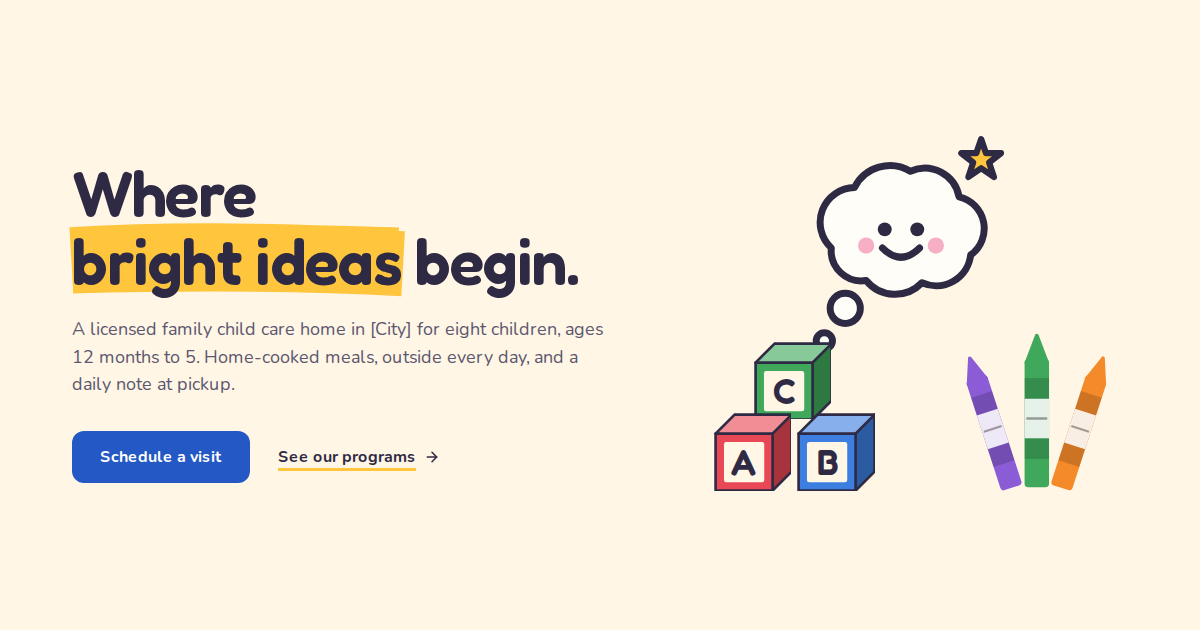
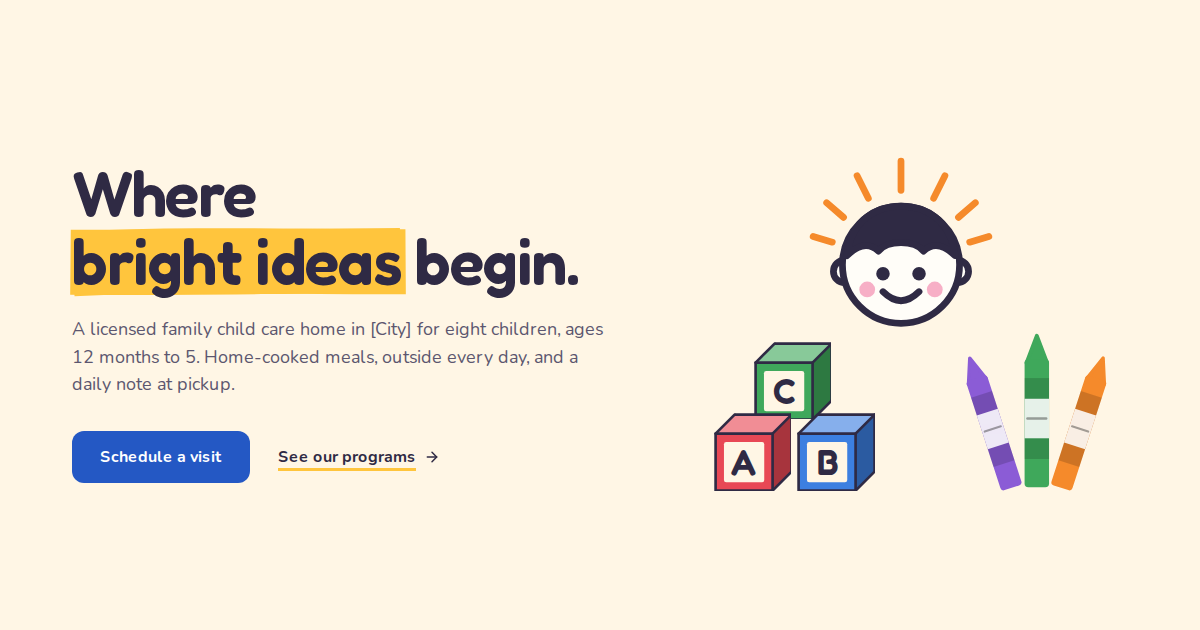
New mascot: a cartoon kid beaming with excitement rays
Replace the thought bubble with a simple cartoon kid (ink outline, hair
cap, dot eyes, smile, cheeks, ears) and seven crayon-orange rays from
the top of the head, in the header, hero, about placeholder, footer,
favicon, and share image. Brand kit and README updated to match.

Claude-Session: https://claude.ai/code/session_012hyVrbn37MDyNhVB1UDNbA

diff --git a/src/components/brand/illustrations.tsx b/src/components/brand/illustrations.tsx
@@ -12,28 +12,21 @@ function a11y(title?: string) {
   return title ? { role: 'img' as const, 'aria-label': title } : { 'aria-hidden': true as const }
 }
 
-/** The mascot: a smiling thought bubble with a star spark. Fills are fixed brand colors; the outline uses currentColor. */
-export function ThoughtBubble({ title, className, ...props }: Svg) {
+/** The mascot: a simple cartoon kid beaming with an idea. Rays are crayon orange; the outline uses currentColor. */
+export function Kid({ title, className, ...props }: Svg) {
   return (
     <svg viewBox="0 0 200 200" className={cn('text-ink', className)} {...a11y(title)} {...props}>
       <g stroke="currentColor" strokeWidth="6" strokeLinecap="round" strokeLinejoin="round">
-        <path
-          d="M40 100 A30 30 0 0 1 60 48 A34 34 0 0 1 108 34 A30 30 0 0 1 150 56 A28 28 0 0 1 160 106 A30 30 0 0 1 118 130 A32 32 0 0 1 70 128 A26 26 0 0 1 40 100 Z"
-          fill="var(--color-paper-2)"
-        />
-        <circle cx="52" cy="152" r="13" fill="var(--color-paper-2)" />
-        <circle cx="34" cy="180" r="7" fill="var(--color-paper-2)" />
-        <circle cx="86" cy="84" r="6" fill="currentColor" stroke="none" />
-        <circle cx="114" cy="84" r="6" fill="currentColor" stroke="none" />
-        <path d="M84 100 Q100 116 116 100" fill="none" />
-        <circle cx="70" cy="98" r="7" fill="var(--color-crayon-pink)" stroke="none" opacity=".6" />
-        <circle cx="130" cy="98" r="7" fill="var(--color-crayon-pink)" stroke="none" opacity=".6" />
-        <polygon
-          points="50,6 61,38 95,38 68,59 79,92 50,72 21,92 32,59 5,38 39,38"
-          fill="var(--color-crayon-yellow)"
-          strokeWidth="14"
-          transform="translate(150 4) scale(0.38)"
-        />
+        <path d="M100 52L100 26 M129 59L139 39 M71 59L61 39 M151 76L166 63 M49 76L34 63 M161 98L178 93 M39 98L22 93" fill="none" stroke="var(--color-crayon-orange)" />
+        <circle cx="50" cy="124" r="10" fill="var(--color-paper-2)" />
+        <circle cx="150" cy="124" r="10" fill="var(--color-paper-2)" />
+        <circle cx="100" cy="118" r="52" fill="var(--color-paper-2)" />
+        <path d="M52 110 C56 78 78 66 100 66 C122 66 144 78 148 110 C138 100 128 98 120 106 C112 96 88 96 80 106 C72 98 62 100 52 110 Z" fill="currentColor" />
+        <circle cx="84" cy="126" r="6" fill="currentColor" stroke="none" />
+        <circle cx="116" cy="126" r="6" fill="currentColor" stroke="none" />
+        <path d="M84 142 Q100 158 116 142" fill="none" />
+        <circle cx="70" cy="140" r="7" fill="var(--color-crayon-pink)" stroke="none" opacity=".6" />
+        <circle cx="130" cy="140" r="7" fill="var(--color-crayon-pink)" stroke="none" opacity=".6" />
       </g>
     </svg>
   )

diff --git a/src/sections/hero.tsx b/src/sections/hero.tsx
@@ -1,6 +1,6 @@
 import { m } from 'motion/react'
 import { Baby, Clock, UtensilsCrossed, Users } from 'lucide-react'
-import { Block, ThoughtBubble, Crayon } from '@/components/brand/illustrations'
+import { Block, Kid, Crayon } from '@/components/brand/illustrations'
 import { Highlighter } from '@/components/motion/highlighter'
 import { Button } from '@/components/ui/button'
 import { Card, IconCircle } from '@/components/ui/card'
@@ -17,7 +17,7 @@ export function Hero() {
         <div className="grid items-center gap-12 lg:grid-cols-[1.05fr_0.95fr] lg:gap-16">
           <div className="max-w-[36rem]">
             {/* On phones the mascot sits above the headline; the full scene shows from lg up. */}
-            <ThoughtBubble className="mb-6 h-24 w-auto lg:hidden" title="The Little Thinkers mascot, a smiling thought bubble" />
+            <Kid className="mb-6 h-24 w-auto lg:hidden" title="The Little Thinkers mascot, a cartoon kid beaming with an idea" />
             <p className="text-[0.9375rem] font-semibold text-ink-soft">{hero.eyebrow}</p>
             <h1 className="mt-3 font-display text-h1 font-semibold text-ink">
               {hero.headline.before}
@@ -75,11 +75,11 @@ function HeroArt() {
   return (
     <div className="relative mx-auto hidden aspect-[5/4] w-full max-w-[520px] lg:block" aria-hidden="true">
       <m.div
-        className="absolute left-1/2 top-0 h-[66%] w-auto -translate-x-1/2"
+        className="absolute left-1/2 top-0 h-[64%] w-auto -translate-x-1/2"
         animate={{ y: [0, -8, 0] }}
         transition={{ duration: 6, ease: 'easeInOut', repeat: Infinity }}
       >
-        <ThoughtBubble className="h-full w-auto" title={`${site.name} mascot`} />
+        <Kid className="h-full w-auto" title={`${site.name} mascot`} />
       </m.div>
       <div className="absolute bottom-0 left-[6%] w-[38%]">
         <div className="relative aspect-[2/1.86]">

diff --git a/src/sections/navbar.tsx b/src/sections/navbar.tsx
@@ -1,7 +1,7 @@
 import { useEffect, useState } from 'react'
 import { AnimatePresence, m } from 'motion/react'
 import { Menu, X } from 'lucide-react'
-import { ThoughtBubble } from '@/components/brand/illustrations'
+import { Kid } from '@/components/brand/illustrations'
 import { Button } from '@/components/ui/button'
 import { Container } from '@/components/ui/layout'
 import { nav, site } from '@/content/site'
@@ -34,7 +34,7 @@ export function Navbar() {
     >
       <Container className="relative flex h-16 items-center gap-6 md:h-[4.5rem]">
         <a href="#top" className="flex items-center gap-2.5 rounded-md" aria-label={`${site.name}, back to top`}>
-          <ThoughtBubble className="h-9 w-auto" />
+          <Kid className="h-9 w-auto" />
           <span className="flex flex-col leading-none">
             <span className="font-display text-[1.125rem] font-semibold text-ink">{site.name}</span>
             <span className="mt-0.5 hidden text-label font-bold uppercase text-ink-soft sm:block">{site.descriptor}</span>

diff --git a/src/sections/about.tsx b/src/sections/about.tsx
@@ -1,5 +1,5 @@
 import { Check } from 'lucide-react'
-import { ThoughtBubble } from '@/components/brand/illustrations'
+import { Kid } from '@/components/brand/illustrations'
 import { Highlighter } from '@/components/motion/highlighter'
 import { Reveal } from '@/components/motion/reveal'
 import { Container, Section } from '@/components/ui/layout'
@@ -21,7 +21,7 @@ export function About() {
                 className="grid aspect-[4/5] w-full place-items-center rounded-xs bg-[linear-gradient(160deg,var(--color-paper)_0%,var(--color-accent-soft)_100%)] text-center"
               >
                 <div className="px-6">
-                  <ThoughtBubble className="mx-auto h-24 w-auto" />
+                  <Kid className="mx-auto h-24 w-auto" />
                   <p className="mt-4 text-[0.9375rem] font-bold text-ink-soft">Add a photo of the reading corner</p>
                 </div>
               </div>

diff --git a/src/sections/footer.tsx b/src/sections/footer.tsx
@@ -1,4 +1,4 @@
-import { ThoughtBubble } from '@/components/brand/illustrations'
+import { Kid } from '@/components/brand/illustrations'
 import { Container } from '@/components/ui/layout'
 import { footer, nav, site } from '@/content/site'
 
@@ -10,7 +10,7 @@ export function Footer() {
         <div className="grid gap-10 md:grid-cols-[1.4fr_1fr_1fr]">
           <div>
             <a href="#top" className="inline-flex items-center gap-2.5 rounded-md">
-              <ThoughtBubble className="h-8 w-auto" />
+              <Kid className="h-8 w-auto" />
               <span className="flex flex-col leading-none">
                 <span className="font-display text-[1.125rem] font-semibold text-ink">{site.name}</span>
                 <span className="mt-0.5 hidden text-label font-bold uppercase text-ink-soft sm:block">{site.descriptor}</span>

diff --git a/BRAND.md b/BRAND.md
@@ -10,7 +10,7 @@ fed real food, and taken outside every day. The brand is warm and specific, neve
 its own sake. It borrows Cluely's discipline (one ground, one accent, whitespace as the
 divider, hairline borders, a strict type scale) and applies it to an identity that is
 warmer than any software company: crayons, alphabet blocks, painted handprints, and a
-thought bubble with a smile.
+cartoon kid beaming with an idea.
 
 **Voice.** A warm, specific owner talking to a parent at pickup. First person. Plain words,
 short sentences, one concrete detail per claim. Calm and certain about safety, licensing,
@@ -33,11 +33,12 @@ stay in [square brackets]; never invent a city, name, phone, or license number.
 
 ## 2. Logo and mascot
 
-**The mark** is a thought bubble with a smile: ink outline (6 units in a 200-unit box),
-paper-white fill, two trailing puffs at the lower left, rosy cheeks, and a small yellow
-star spark at the upper right. It says "thinking" in one glance and keeps the friendly
-face at every size. Source: `ThoughtBubble` in `src/components/brand/illustrations.tsx`.
-Favicon: `public/favicon.svg`.
+**The mark** is a simple cartoon kid beaming with an idea: a round face in ink outline
+(6 units in a 200-unit box) with a paper-white fill, an ink hair cap, dot eyes, a smile,
+rosy cheeks, little ears, and seven crayon-orange excitement rays radiating from the top of
+the head. The rays are the "little thinker" moment; the face keeps it friendly at every
+size. Source: `Kid` in `src/components/brand/illustrations.tsx`. Favicon:
+`public/favicon.svg`.
 
 **Wordmark.** "Little Thinkers" in Fredoka 600, ink, always on one line. "Family Child
 Care" beneath it in the 13px label style (ink-soft), hidden on phones.
@@ -48,7 +49,7 @@ the headline on phones, favicon 64-unit box. Never below 24px.
 **Clear space.** At least half the mark's height on every side. Nothing overlaps it.
 
 **Don't.** Recolor the outline, add gradients or shadows, rotate it, place it on a tinted
-band, use it as a bullet, or pair it with a second mascot. The bubble appears as logo
+band, use it as a bullet, or pair it with a second mascot. The kid appears as logo
 (header, footer, favicon, share image) and as the hero subject. Nowhere else.
 
 ## 3. Color
@@ -78,8 +79,8 @@ ground named in each row.
 | `crayon-blue` | #3C7FE0 | Fill only: block B, the blue handprint, the Toddlers card edge | never text |
 | `crayon-green` | #3FA85B | Fill only: block C, the green handprint, the Preschool card edge | never text |
 | `crayon-green-deep` | #237A3C | Check marks in credential and tuition lists | 5.0:1 on paper |
-| `crayon-orange` | #F58A2B | Fill only: the third crayon in the hero fan | never text |
-| `crayon-yellow` | #FFC53D | Fill only: the star spark on the mascot | never text |
+| `crayon-orange` | #F58A2B | Fill only: the mascot's rays, the third crayon in the hero fan | never text |
+| `crayon-yellow` | #FFC53D | Same value as `marker`; reserved for drawings | never text |
 | `crayon-purple` | #8B5CD6 | Fill only: the first crayon in the hero fan | never text |
 | `crayon-pink` | #F27BA5 | Fill only: the mascot's cheeks at 60% | never text |
 
@@ -149,7 +150,7 @@ joins, no gradients, no shadows, no wobble filters. Every drawing takes its colo
 
 | Asset | Where it appears | Where it must not |
 | --- | --- | --- |
-| Thought bubble | Header, footer, favicon, share image, hero subject, the photo placeholder | Bullets, cards, backgrounds |
+| The kid | Header, footer, favicon, share image, hero subject, the photo placeholder | Bullets, cards, backgrounds |
 | Alphabet blocks | The hero stack (A, B, C) and Our ABCs at 96px, where the letters are the content | Program cards, icons |
 | Crayons | The fan in the hero, three colors, grounded at the bottom right | Anywhere else |
 | Handprints | One cluster of three overlapping prints in the Visit section | Rows, footers, backgrounds |

diff --git a/README.md b/README.md
@@ -4,7 +4,7 @@ Website for a licensed family child care home in California. Built with Vite, Re
 TypeScript, Tailwind CSS v4, and Motion (the current name of Framer Motion), using
 components adapted from the 21st.dev ecosystem (Motion Primitives, Magic UI).
 
-The look: crayons, alphabet blocks, painted handprints, warm paper, and a smiling thought-bubble
+The look: crayons, alphabet blocks, painted handprints, warm paper, and a cartoon kid beaming with an idea
 mascot, held together by the brand kit in `BRAND.md`.
 
 ## Run it
@@ -28,7 +28,7 @@ Node 20 or newer.
 | `src/sections/` | One file per section, in page order (navbar, hero, about, programs, day, tuition, abcs, steps, faq, visit, footer) |
 | `src/components/ui/` | Button, Card, Container, Section, headings, labels |
 | `src/components/motion/` | Reveal, AnimatedGroup, Accordion, Highlighter |
-| `src/components/brand/illustrations.tsx` | Thought-bubble mascot, handprint, crayon, alphabet block, star, sun |
+| `src/components/brand/illustrations.tsx` | Kid mascot, handprint, crayon, alphabet block, star, sun |
 | `BRAND.md` | The brand kit |
 | `NAME-RESEARCH.md` | Why the site isn't called Little Thinkers, and the alternatives checked |
 | `.claude/skills/` | Project skills: framer-motion, 21st-dev-components, ui-ux-pro-max |
